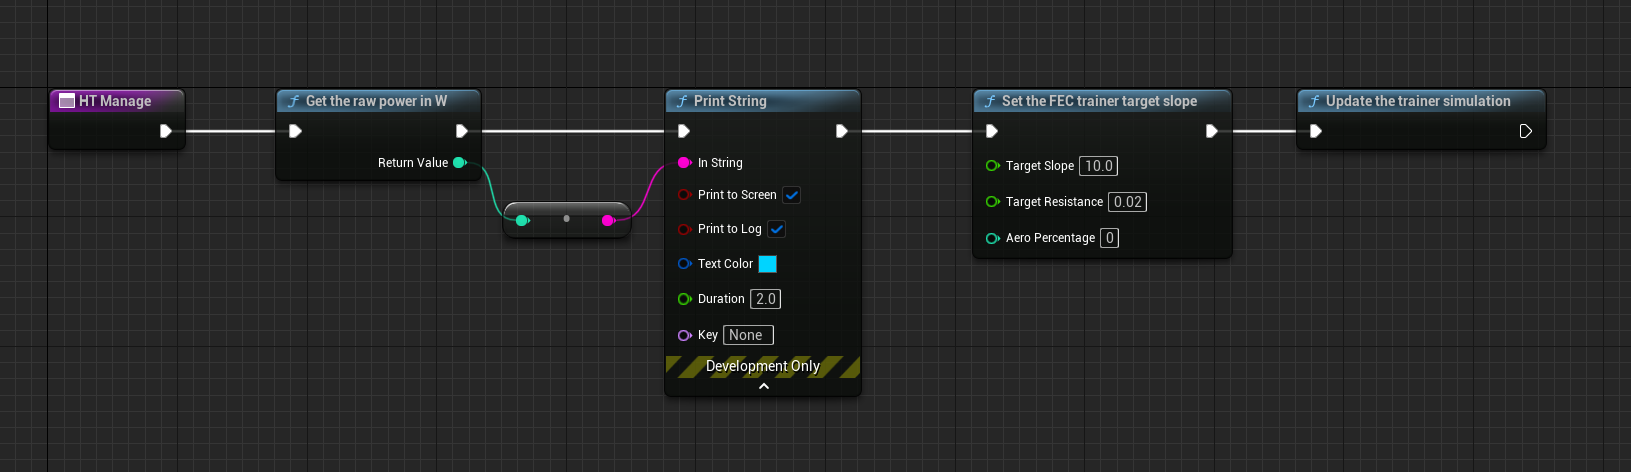
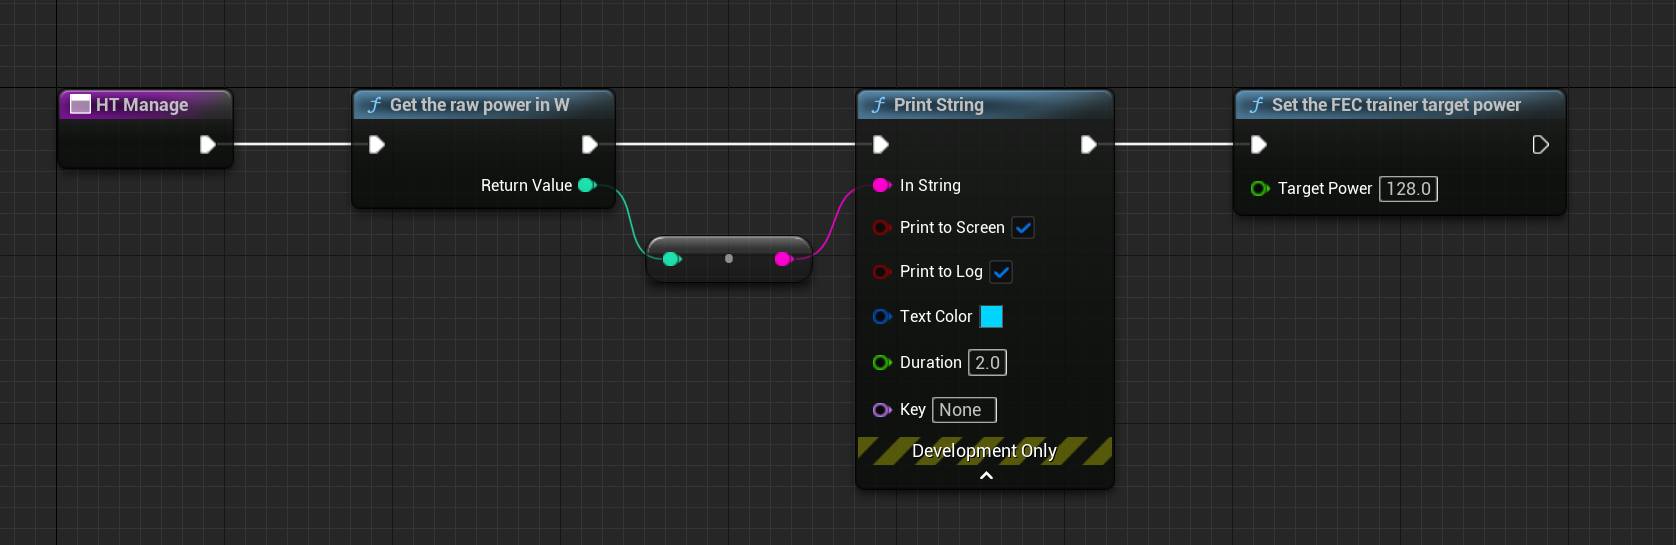
Updated image and readme

Changed region(s): [[0.0307, 0.1483, 0.9503, 0.9195], [0.9197, 0.2669, 0.9503, 0.2966]]

diff --git a/Readme.md b/Readme.md
@@ -85,5 +85,5 @@ You can define a timer that will call the library at regular intervals to get th
 
 In the code running from the timer you can then call "GetHTPower" to read the last received power.
 
-To send the trainer target slope, call the corresponding bloc followed by "Update the trainer simulation".  
-But DO NOT CALL "Update the trainer simulation" AT MORE THAN 2Hz !
+To send the trainer target power, call the corresponding bloc "et the FEC target power".  
+But DO NOT CALL THIS BLOC AT MORE THAN 2Hz !
